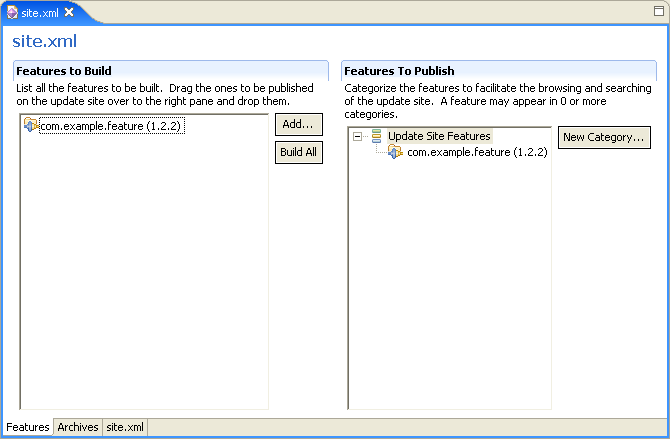
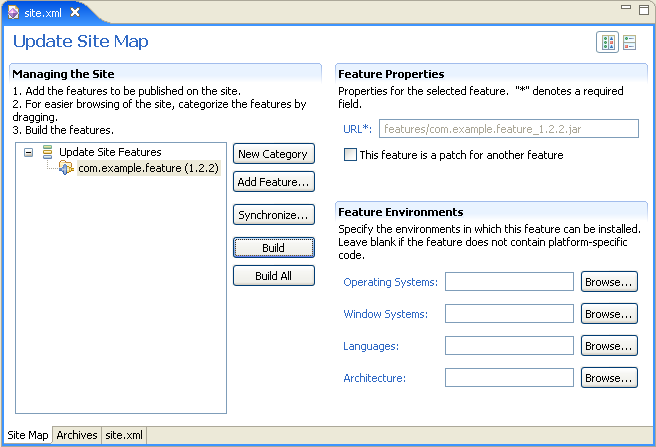
Documenting 3.1 PDE

diff --git a/bundles/org.eclipse.pde.doc.user/guide/pde_site_building.htm b/bundles/org.eclipse.pde.doc.user/guide/pde_site_building.htm
@@ -15,31 +15,35 @@ Building an update site is a relatively simple task and most of the work is done
 on the <b>Features</b> page of the update site editor.</p>
 <p align="center">
 <img border="0" src="images/site-features.png" ></p>
-<p align="center">
-&nbsp;</p>
+<p align="center">&nbsp;
+</p>
 <p align="left">
-Features added to the <b>Features to Build</b> section will be built recursively 
-when you press <b>Build All</b>.&nbsp; This means that the features and all the 
+Features added to the <b>Managing the Site</b> section will be built recursively
+
+when you press <b>Build All</b>.&nbsp; This means that the features and all the
+
 plug-ins and fragments they include will be built in one batch operation.&nbsp; 
-The feature JARs end up in the <b>features/</b> folder of your site project and 
+The feature JARs end up in the <b>features/</b> folder of your site project and
+
 the plug-in JARs are placed in the <b>plugins/</b> folder of your site project.</p>
 <p align="left">
-If you would like to build a subset of those features, there is a <b>Build</b> 
-action available through the context menu of that section.</p>
+If you would like to build one feature, select a feature and press the <b>Build</b> 
+button..</p>
 <p align="left">
 If you are dealing with features that include other features, only the root 
 feature needs to be listed, since its child features will automatically be 
 built.</p>
-<p align="left">
-Not all features on the update site may be meant for general consumption.&nbsp; 
-Therefore, the features you intend to publish need to be explicitly dragged and 
-dropped in the <b>Features to Publish</b> section.</p>
+<p align="left">Features that have environment constraints need to specify environments
+  in the<b>  Feature Environments</b> section. Select a feature and fill in the
+  values, or press <b>Synchronize...</b> button and let the environment be copied
+  from feature manifest to the site.</p>
 <p align="left">
 For easy browsing of your features on your update site, you can create 
 categories and organize your published features in these categories.&nbsp; A 
 feature may appear in &gt;= 0 categories.</p>
 <p align="left">
-To preview on what your website would look like, save the site.xml file and open 
+To preview on what your web site would look like, save the site.xml file and
+  open 
 the index.html file at the root of your site project in a browser.</p>
 
 
